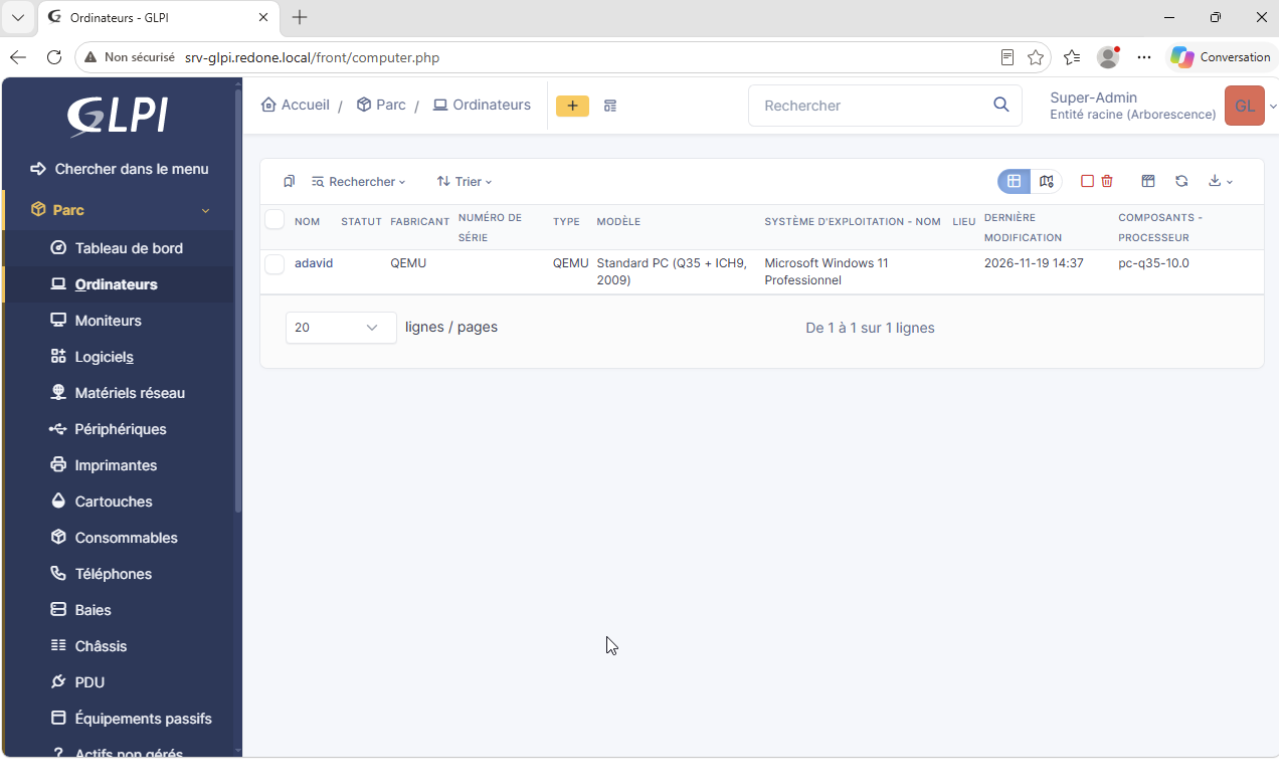
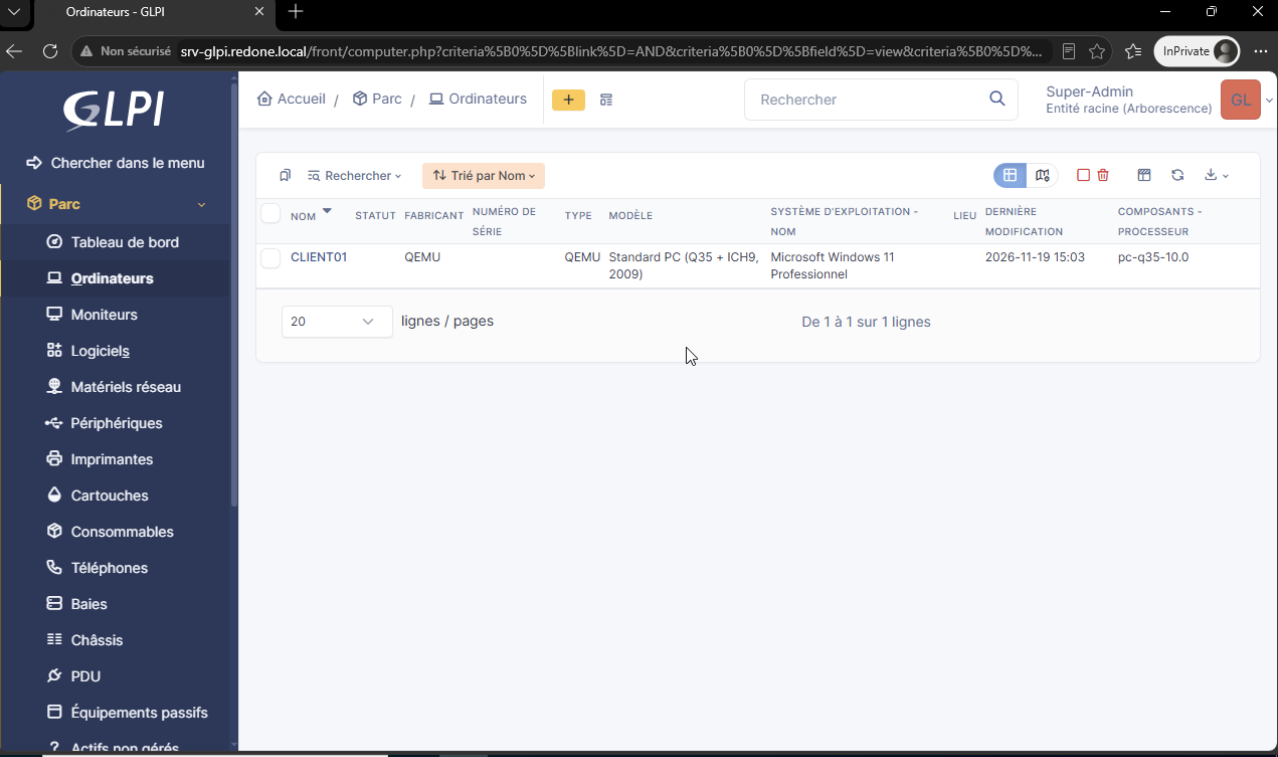
GLPI : poste renommé CLIENT01, inventaire mis à jour
Claude-Session: https://claude.ai/code/session_0111veeq2Gfm8yT7L1mPw8RA

diff --git a/AP1/GLPI/GLPI.md b/AP1/GLPI/GLPI.md
@@ -346,9 +346,11 @@ L'agent s'installe comme un service Windows : il envoie un inventaire au démarr
 
 ### Résultat
 
-Le poste apparaît dans *Parc > Ordinateurs* **sans aucune saisie** : nom, fabricant et modèle (une machine virtuelle QEMU), système **Windows 11 Professionnel**, processeur, date du dernier inventaire. Sa fiche détaille les composants et les logiciels installés.
+Le poste **`CLIENT01`** apparaît dans *Parc > Ordinateurs* **sans aucune saisie** : nom, fabricant et modèle (une machine virtuelle QEMU), système **Windows 11 Professionnel**, processeur, date du dernier inventaire. Sa fiche détaille les composants et les logiciels installés.
 
 ![Ordinateur inventorié](images/32-ordinateur-inventorie.png)
+
+Le premier inventaire a révélé que le nom Windows du poste ne correspondait pas au plan (`adavid` au lieu de `CLIENT01`). Le poste a été renommé ; au rapport suivant, GLPI a **mis à jour la fiche existante** au lieu d'en créer une seconde, car il reconnaît la machine par son identifiant matériel. L'ancien enregistrement DNS a été supprimé.
 
 ## Questions pour l'oral
 
